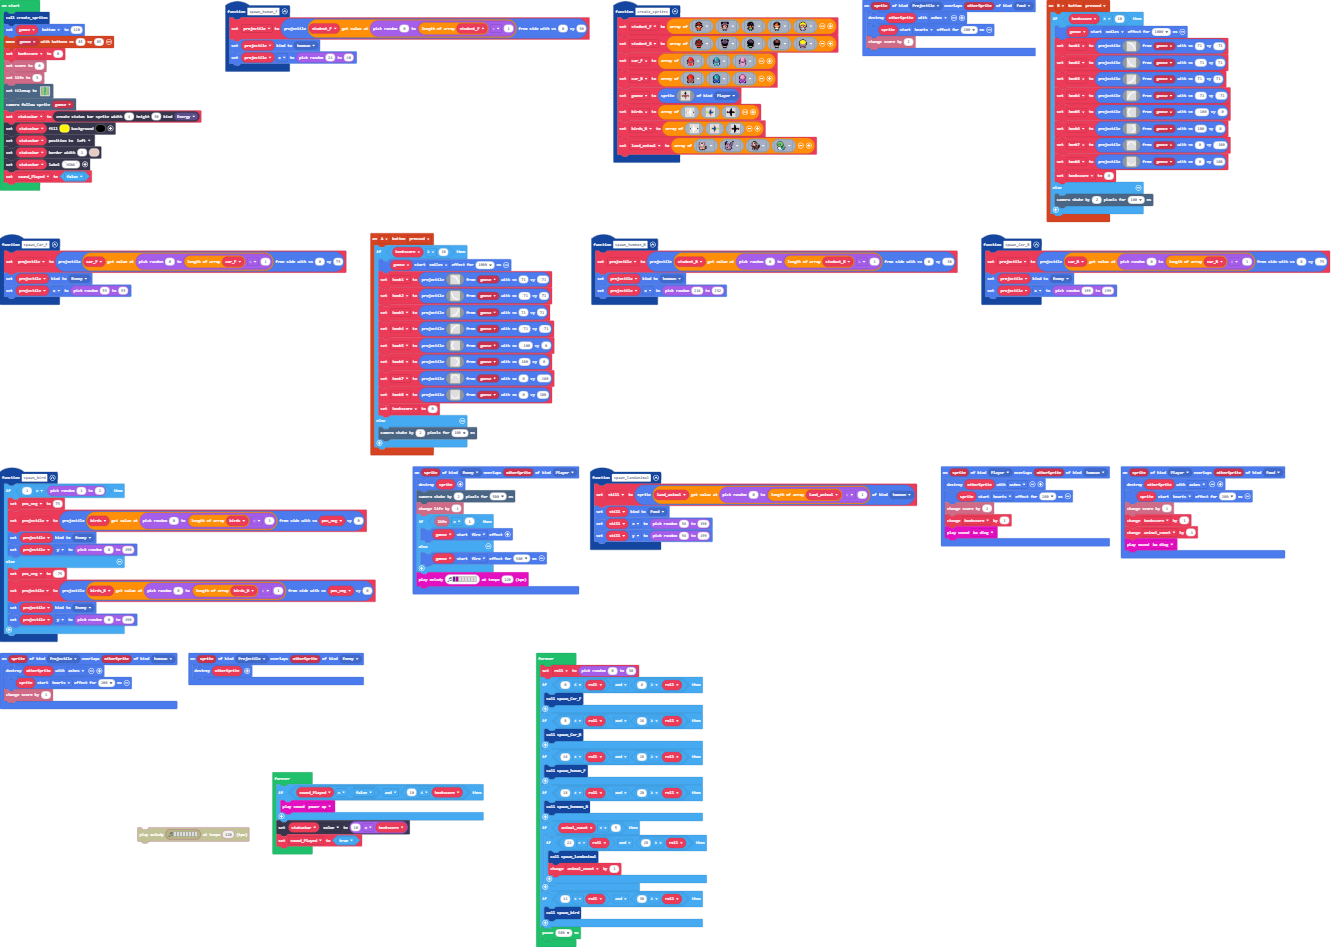
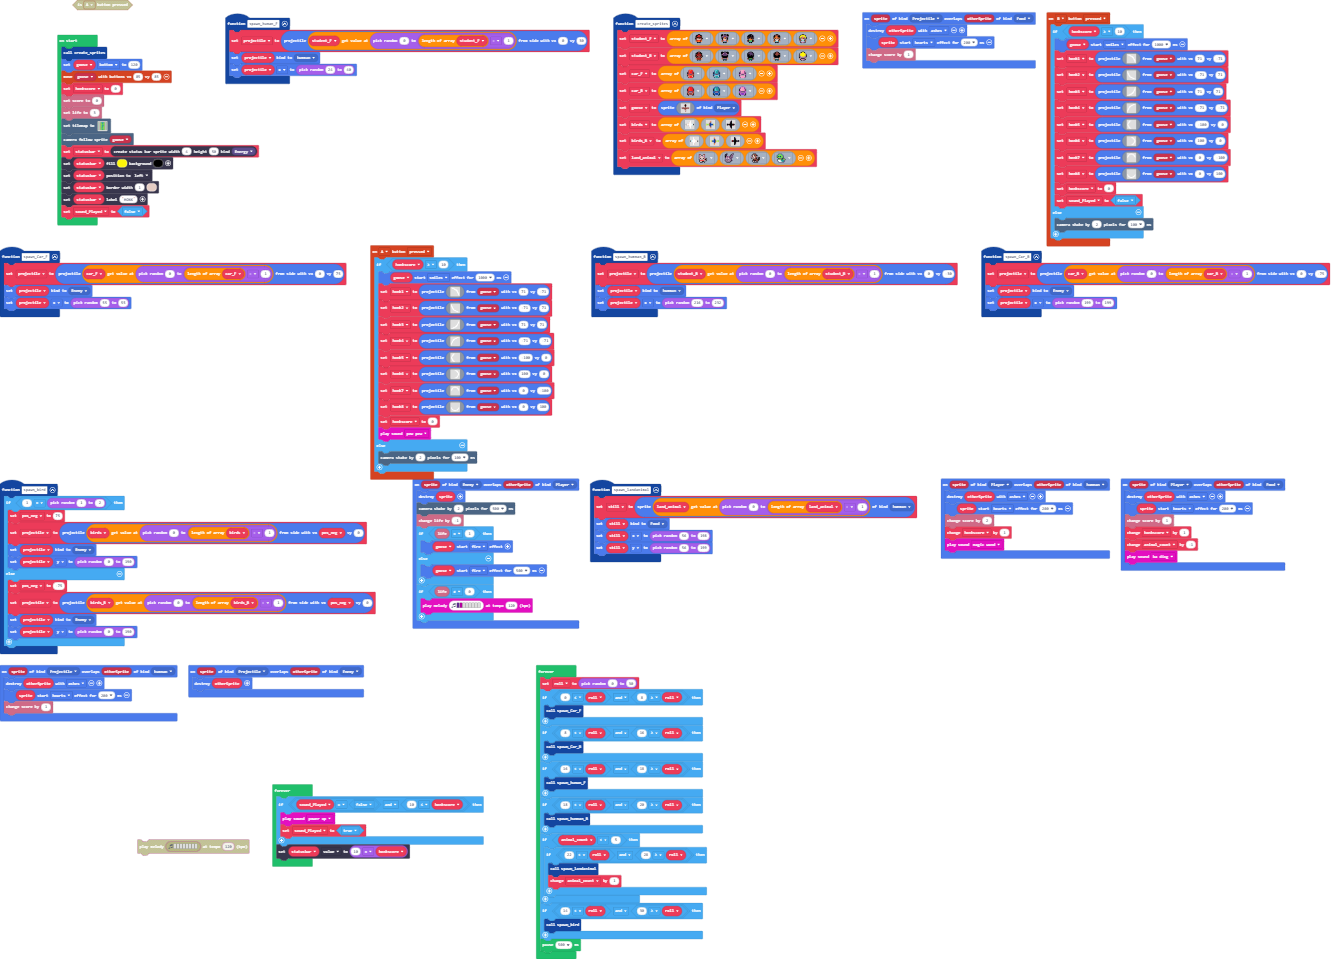
Update main.blocks, main.ts

Changed region(s): [[0.0, 0.0, 1.0, 0.9799], [0.0916, 0.8268, 0.3663, 0.9187]]

diff --git a/main.ts b/main.ts
@@ -288,6 +288,7 @@ controller.B.onEvent(ControllerButtonEvent.Pressed, function () {
             . . . . . . 1 1 1 1 . . . . . . 
             `, goose, 0, 100)
         honkscore = 0
+        sound_Played = false
     } else {
         scene.cameraShake(2, 100)
     }
@@ -445,6 +446,7 @@ controller.A.onEvent(ControllerButtonEvent.Pressed, function () {
             . . . . . . 1 1 1 1 . . . . . . 
             `, goose, 0, 100)
         honkscore = 0
+        music.pewPew.play()
     } else {
         scene.cameraShake(2, 100)
     }
@@ -481,7 +483,9 @@ sprites.onOverlap(SpriteKind.Enemy, SpriteKind.Player, function (sprite, otherSp
     } else {
         goose.startEffect(effects.fire, 500)
     }
-    music.playMelody("D C - - - - - - ", 120)
+    if (info.life() != 0) {
+        music.playMelody("D C - - - - - - ", 120)
+    }
 })
 function spawn_landanimal () {
     still = sprites.create(land_animal[randint(0, land_animal.length - 1)], SpriteKind.humman)
@@ -494,7 +498,7 @@ sprites.onOverlap(SpriteKind.Player, SpriteKind.humman, function (sprite, otherS
     sprite.startEffect(effects.hearts, 200)
     info.changeScoreBy(2)
     honkscore += 1
-    music.baDing.play()
+    music.magicWand.play()
 })
 sprites.onOverlap(SpriteKind.Player, SpriteKind.Food, function (sprite, otherSprite) {
     otherSprite.destroy(effects.ashes)
@@ -532,6 +536,7 @@ let car_F: Image[] = []
 let student_B: Image[] = []
 let student_F: Image[] = []
 let projectile: Sprite = null
+let sound_Played = false
 let honkscore = 0
 let goose: Sprite = null
 create_sprites()
@@ -547,7 +552,7 @@ statusbar.setColor(5, 15)
 statusbar.positionDirection(CollisionDirection.Left)
 statusbar.setBarBorder(1, 13)
 statusbar.setLabel("HONK")
-let sound_Played = false
+sound_Played = false
 forever(function () {
     roll = randint(0, 30)
     if (0 <= roll && 8 >= roll) {
@@ -576,7 +581,7 @@ forever(function () {
 forever(function () {
     if (sound_Played == false && 10 <= honkscore) {
         music.powerUp.play()
+        sound_Played = true
     }
     statusbar.value = 10 * honkscore
-    sound_Played = true
 })
